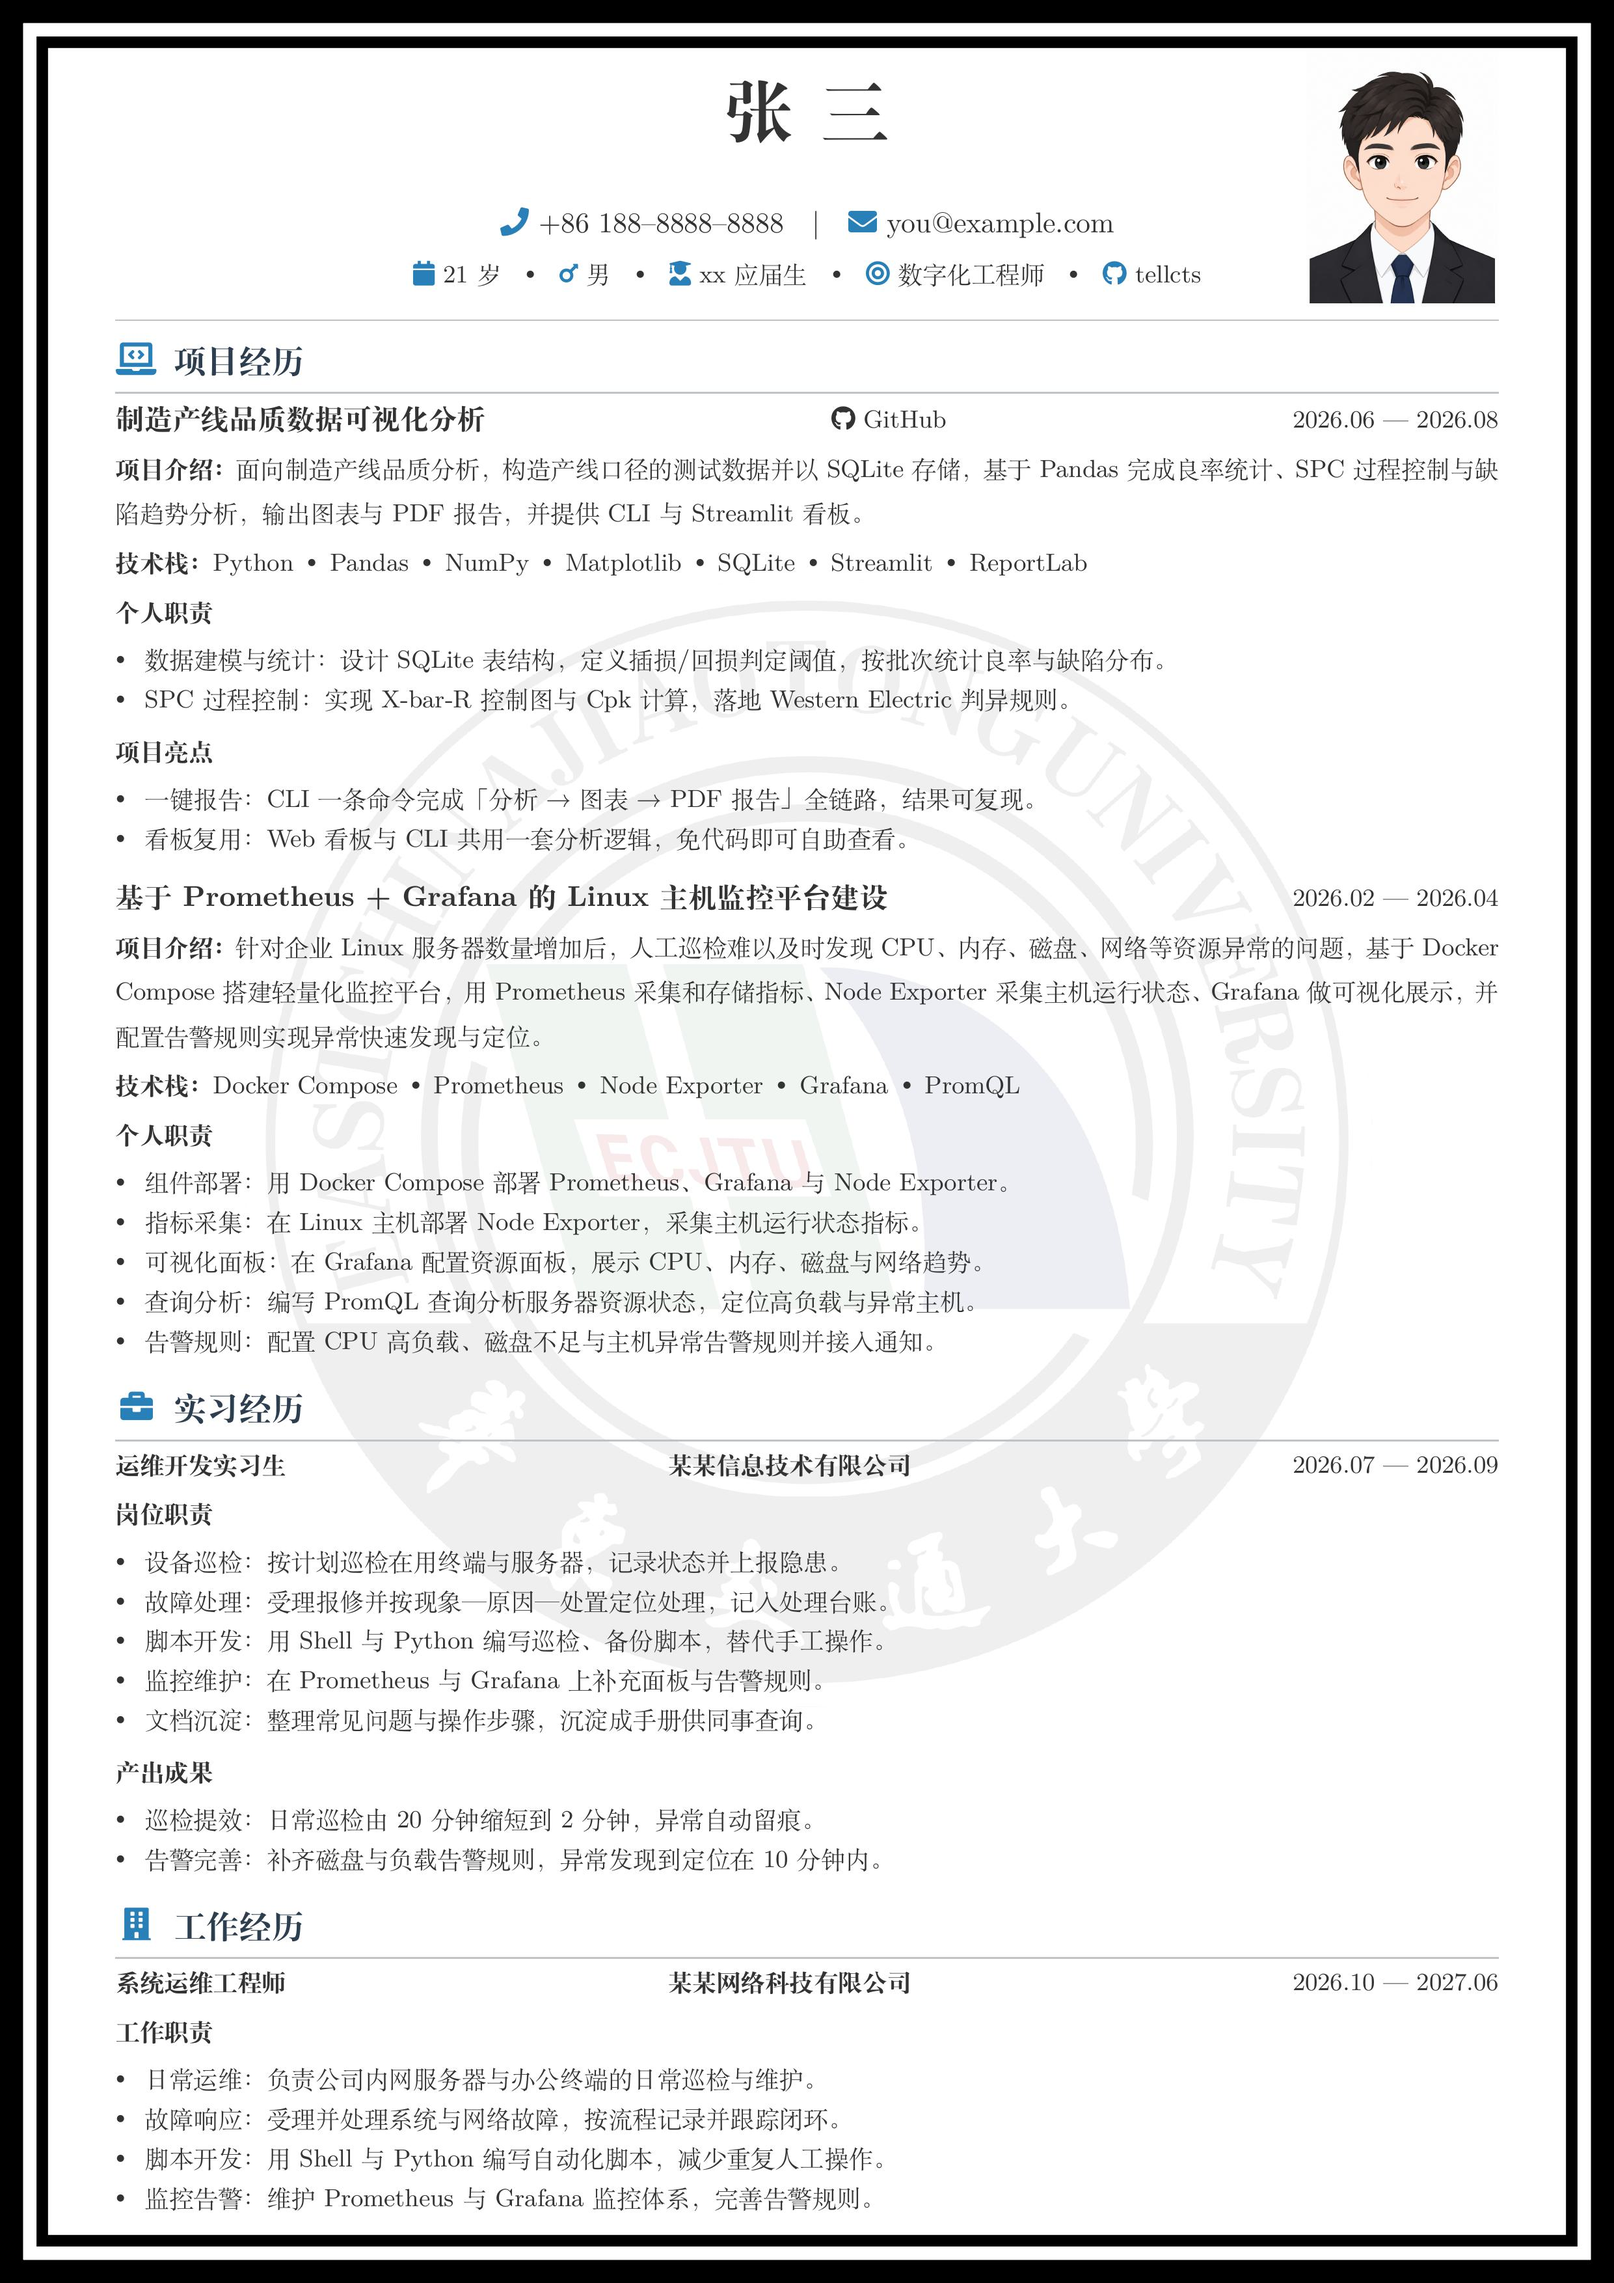
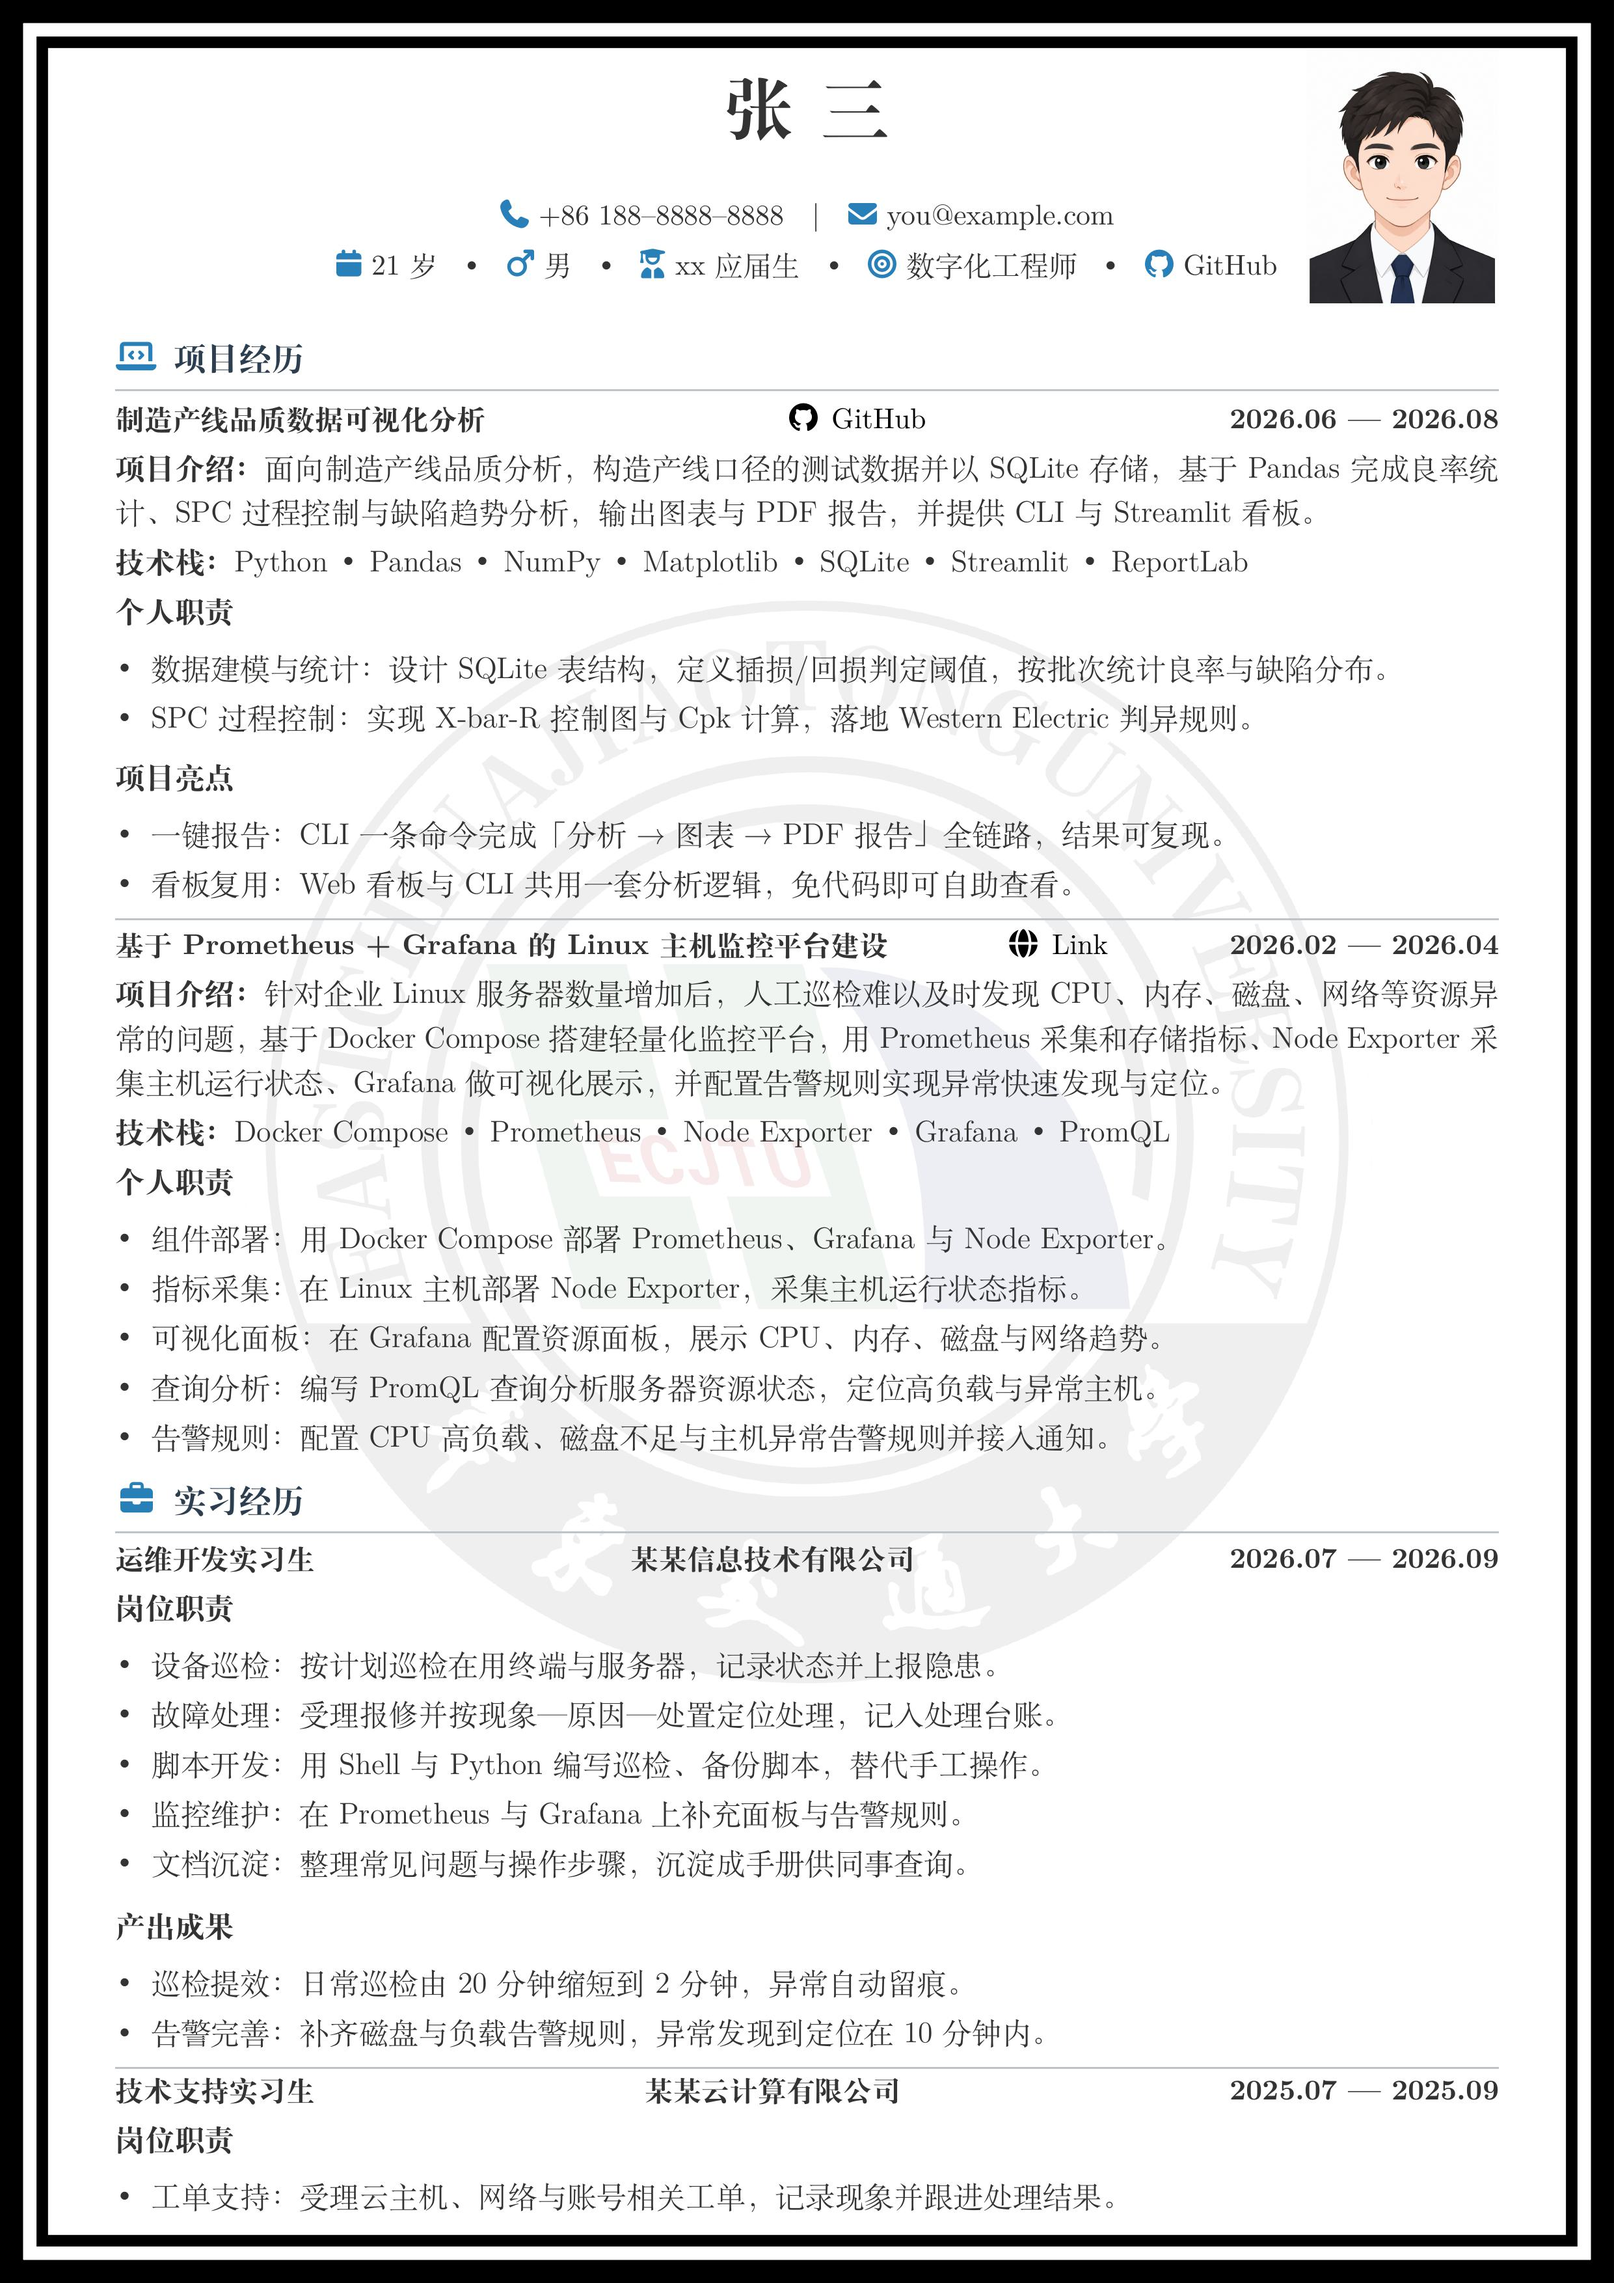
更新模板 tzcan 预览图 (#27)

diff --git a/src/templates/tzcan/main.tex b/src/templates/tzcan/main.tex
@@ -132,7 +132,6 @@
   date     = {2026.10 --- 2027.06},
   duty = {
   \item 日常运维： 负责公司内网服务器与办公终端的日常巡检与维护。
-  \item 故障响应： 受理并处理系统与网络故障，按流程记录并跟踪闭环。
   \item 脚本开发： 用 Shell 与 Python 编写自动化脚本，减少重复人工操作。
   \item 监控告警： 维护 Prometheus 与 Grafana 监控体系，完善告警规则。
   \item 备份恢复： 制定并执行数据备份计划，定期验证备份的可恢复性。
@@ -149,7 +148,6 @@
   date     = {2024.07 --- 2025.06},
   duty = {
   \item 终端支持： 负责办公电脑、打印机与会议设备的安装、配置和故障处理。
-  \item 账号权限： 按审批流程维护域账号、邮箱及业务系统权限。
   \item 数据备份： 执行服务器与关键业务数据备份，定期抽查恢复结果。
   \item 资产管理： 维护设备台账与领用记录，定期盘点办公资产。
   },
@@ -165,7 +163,7 @@
 \cvsection{\faGraduationCap}{教育背景}
 \cveducation{
   date    = {2023.09 --- 2027.06},
-  school  = {哈尔滨工业大学（985）},
+  school  = {华东交通大学},
   major   = {计算机科学与技术},
   degree  = {本科},
   rank    = {前20\%（GPA:~4.0~/~5.0）},

diff --git a/README.md b/README.md
@@ -4,7 +4,7 @@
   <img src=".github/assets/readme-banner.svg" alt="resumes-CV —— 用 LaTeX 模块化构建属于你的精美简历" />
 </h1>
 
-把简历当代码写：内容归内容，排版归排版，版面效果跨平台强一致性。
+像写代码一样写简历：内容专注表达，排版专注呈现，优雅而不失风范。
 
 [![CI](https://github.com/tellcts/resumes-CV/actions/workflows/build-check.yml/badge.svg?branch=main)](https://github.com/tellcts/resumes-CV/actions/workflows/build-check.yml)
 ![TeX Live](https://img.shields.io/badge/TeX%20Live-2026-3D6117?logo=latex&logoColor=white)
@@ -184,8 +184,8 @@ resumes-CV/
 **普通用户不用提前装任何东西** —— 三条路通向同一份 PDF，**任选一条即可**：
 **方式一**是 **Overleaf 在线编译**；介意把简历传到网上，可选择**方式二本地安装 TeX Live**或**方式三 Docker 容器编译**。
 
-| 方式     | 方案                  | 适合谁                       | 优点                                                 | 缺点                                                       |
-| -------- | --------------------- | ---------------------------- | ---------------------------------------------------- | ---------------------------------------------------------- |
+| 方式       | 方案                  | 适合谁                       | 优点                                                 | 缺点                                                       |
+| ---------- | --------------------- | ---------------------------- | ---------------------------------------------------- | ---------------------------------------------------------- |
 | **方式一** | **Overleaf 在线编译** | 只想尽快填内容、尽快出 PDF   | 零安装、零配置，浏览器里改完就能出 PDF，换电脑也一样 | ⚠ 简历会上传到第三方服务器（姓名 / 电话 / 证件照都在云端） |
 | **方式二** | **本地安装 TeX Live** | 在意隐私、要长期反复改简历   | 全程本地、离线可用，编译结果可复现                   | 完整版约 10 GB，装完还要配环境                             |
 | **方式三** | **Docker 容器编译**   | 不想在本机装几个 GB 的 LaTeX | 免装 TeX Live，源码与产物仍留在自己电脑上            | 要先装好 Docker；首次拉镜像约 2.5 GB                       |
